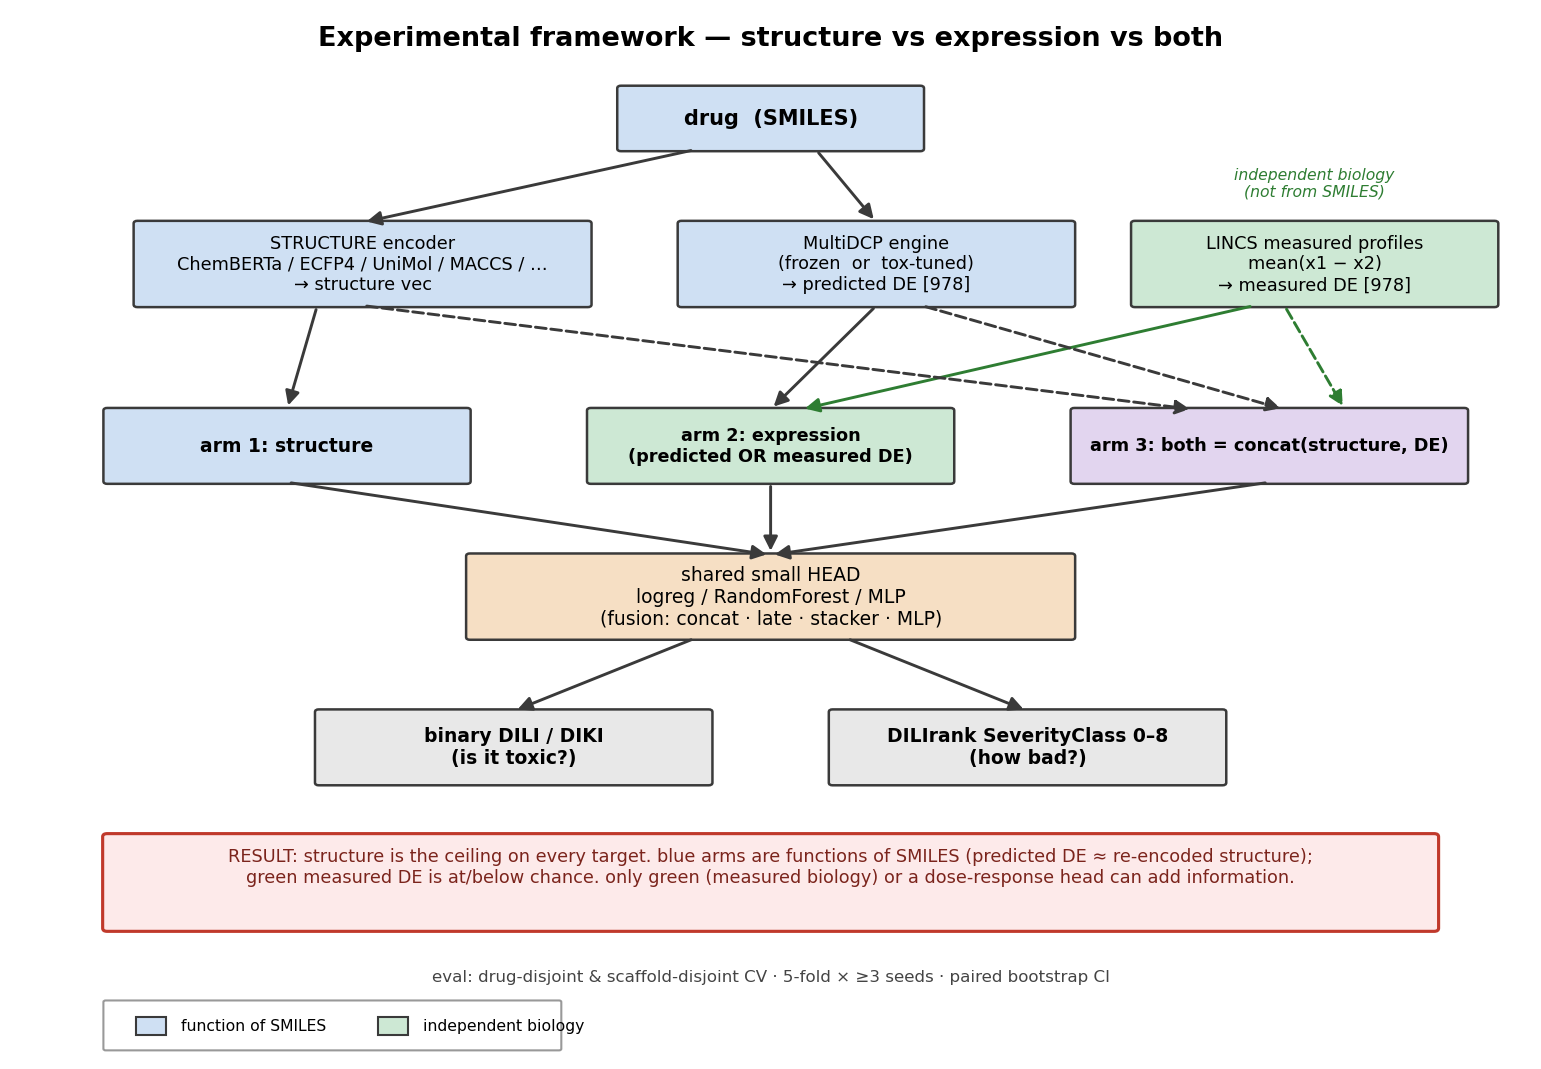
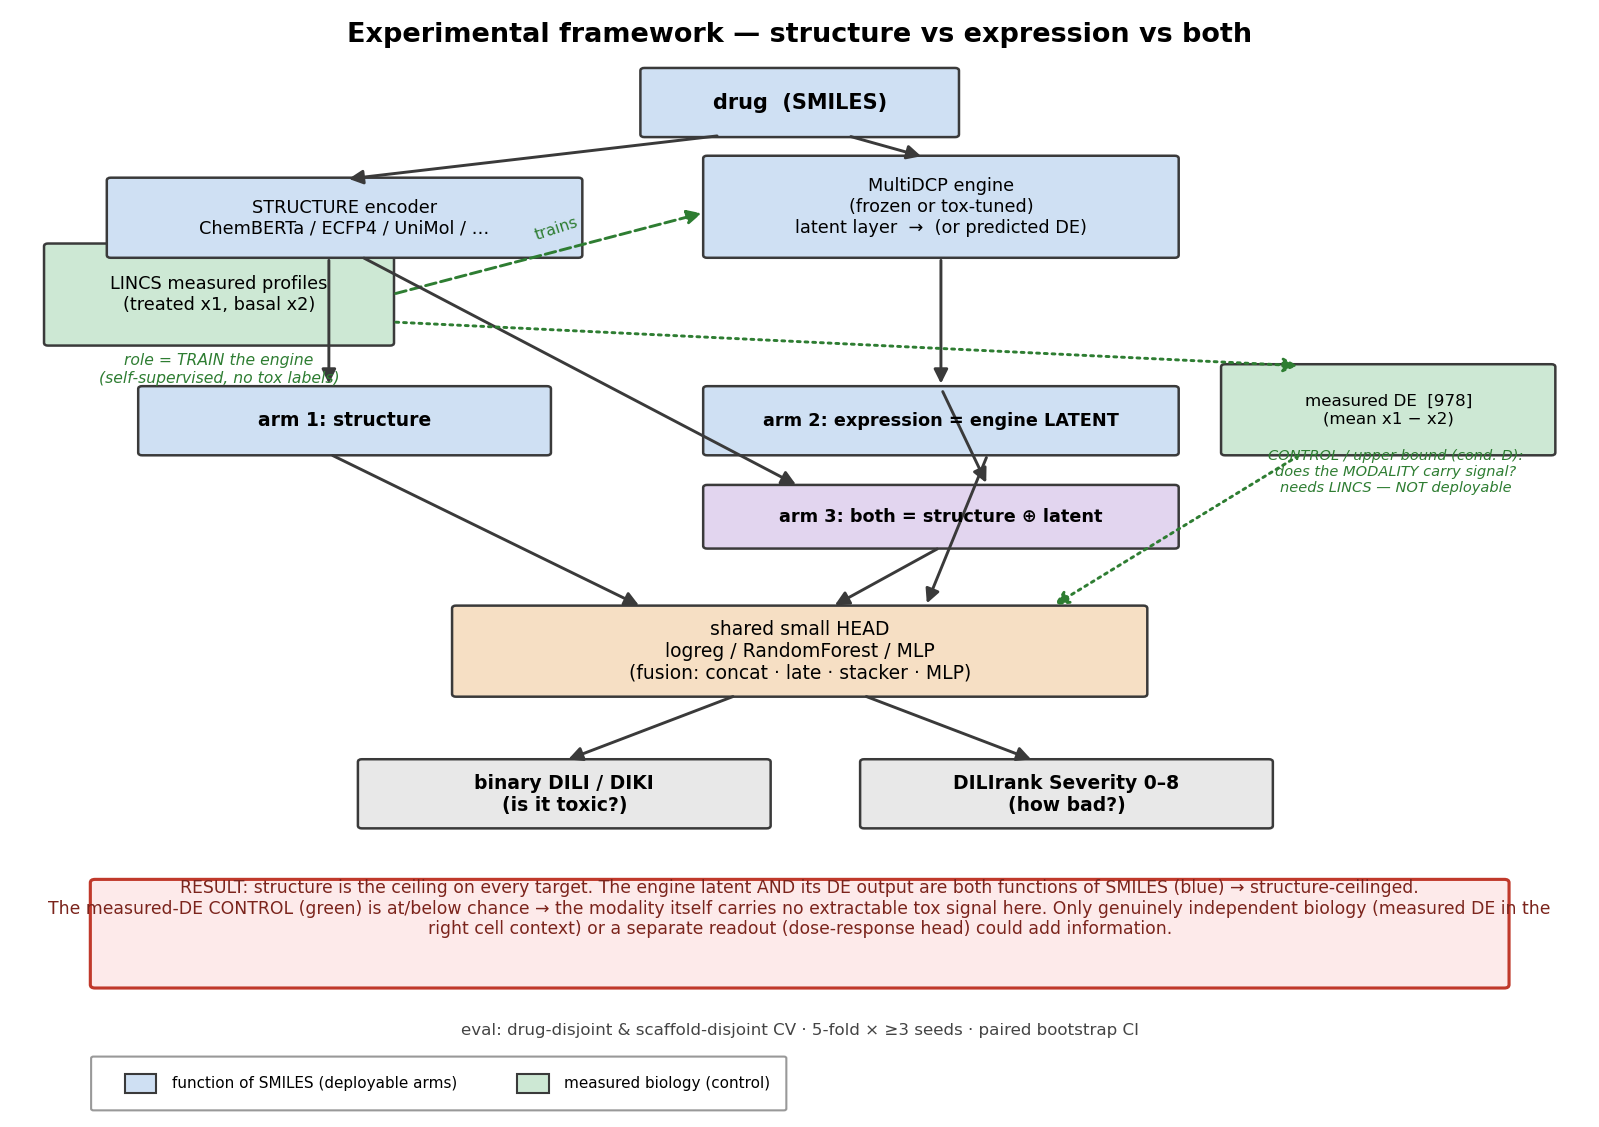
docs(tox): fix framework diagram — measured profiles train the engine; expression arm = latent
Per review: measured LINCS profiles were wrongly drawn feeding the classifier directly. Corrected:
- LINCS measured profiles -> TRAIN the MultiDCP engine (self-supervised), not the classifier.
- expression arm = engine LATENT layer (primary), DE output noted as alt readout.
- measured-DE-direct redrawn as a separate CONTROL / upper-bound branch (condition D, not deployable),
  kept because it's what showed the negative isn't an engine-fidelity artifact.

diff --git a/spatial_tests/scripts/make_wiring_figures.py b/spatial_tests/scripts/make_wiring_figures.py
@@ -87,66 +87,73 @@ def fig_engine():
 
 # ============================================================ Figure 2: framework
 def fig_framework():
-    fig, ax = plt.subplots(figsize=(13, 9))
+    fig, ax = plt.subplots(figsize=(13.5, 9.5))
     ax.set_xlim(0, 100); ax.set_ylim(0, 100); ax.axis("off")
-    ax.text(50, 97, "Experimental framework — structure vs expression vs both",
+    ax.text(50, 97.5, "Experimental framework — structure vs expression vs both",
             ha="center", fontsize=13, fontweight="bold")
 
-    # SMILES source
-    box(ax, 40, 87, 20, 6, "drug  (SMILES)", BLUE, 10, bold=True)
+    # ---- training role of measured LINCS profiles: they TRAIN the engine ----
+    box(ax, 2, 70, 22, 9, "LINCS measured profiles\n(treated x1, basal x2)", GREEN, 8.5)
+    ax.text(13, 66.5, "role = TRAIN the engine\n(self-supervised, no tox labels)",
+            ha="center", fontsize=7.5, color="#2e7d32", style="italic")
 
-    # two SMILES-derived arms
-    box(ax, 8, 72, 30, 8, "STRUCTURE encoder\nChemBERTa / ECFP4 / UniMol / MACCS / …\n→ structure vec",
+    # ---- SMILES -> two deployable, SMILES-derived arms ----
+    box(ax, 40, 89, 20, 6, "drug  (SMILES)", BLUE, 10, bold=True)
+    box(ax, 6, 78, 30, 7, "STRUCTURE encoder\nChemBERTa / ECFP4 / UniMol / …", BLUE, 8.5)
+    box(ax, 44, 78, 30, 9, "MultiDCP engine\n(frozen or tox-tuned)\nlatent layer  →  (or predicted DE)",
         BLUE, 8.5)
-    box(ax, 44, 72, 26, 8, "MultiDCP engine\n(frozen  or  tox-tuned)\n→ predicted DE [978]", BLUE, 8.5)
-    arrow(ax, 45, 87, 23, 80)
-    arrow(ax, 53, 87, 57, 80)
+    arrow(ax, 45, 89, 21, 85)
+    arrow(ax, 53, 89, 58, 87)
+    arrow(ax, 24, 74.5, 44, 82, color="#2e7d32", ls="--")  # measured profiles -> train engine
+    ax.text(33, 79.5, "trains", fontsize=7.5, color="#2e7d32", rotation=18)
 
-    # measured DE — independent biology, enters from the side
-    box(ax, 74, 72, 24, 8, "LINCS measured profiles\nmean(x1 − x2)\n→ measured DE [978]", GREEN, 8.5)
-    ax.text(86, 82.5, "independent biology\n(not from SMILES)", ha="center", fontsize=7.5,
-            color="#2e7d32", style="italic")
+    # ---- deployable arms ----
+    box(ax, 8, 60, 26, 6, "arm 1: structure", BLUE, 9, bold=True)
+    box(ax, 44, 60, 30, 6, "arm 2: expression = engine LATENT", BLUE, 8.5, bold=True)
+    box(ax, 44, 51.5, 30, 5.5, "arm 3: both = structure ⊕ latent", PURPLE, 8.5, bold=True)
+    arrow(ax, 20, 78, 20, 66)              # structure -> arm1
+    arrow(ax, 59, 78, 59, 66)              # engine latent -> arm2
+    arrow(ax, 22, 78, 50, 57)              # structure -> arm3
+    arrow(ax, 59, 66, 62, 57)             # arm2 feeds into arm3 (both)
 
-    # three arms
-    box(ax, 6, 55, 24, 7, "arm 1: structure", BLUE, 9, bold=True)
-    box(ax, 38, 55, 24, 7, "arm 2: expression\n(predicted OR measured DE)", GREEN, 8.5, bold=True)
-    box(ax, 70, 55, 26, 7, "arm 3: both = concat(structure, DE)", PURPLE, 8.5, bold=True)
-    arrow(ax, 20, 72, 18, 62)                       # structure -> arm1
-    arrow(ax, 57, 72, 50, 62)                       # pred DE -> arm2
-    arrow(ax, 82, 72, 52, 62, color="#2e7d32")      # meas DE -> arm2
-    arrow(ax, 23, 72, 78, 62, ls="--")              # structure -> arm3
-    arrow(ax, 60, 72, 84, 62, ls="--")              # pred DE -> arm3
-    arrow(ax, 84, 72, 88, 62, ls="--", color="#2e7d32")  # meas DE -> arm3
+    # ---- control branch: measured DE fed DIRECTLY (upper bound, not deployable) ----
+    box(ax, 77, 60, 21, 8, "measured DE  [978]\n(mean x1 − x2)", GREEN, 8)
+    arrow(ax, 24, 72, 82, 68, color="#2e7d32", ls=":")   # profiles -> measured DE feature
+    ax.text(88, 56.5, "CONTROL / upper bound (cond. D):\ndoes the MODALITY carry signal?\n"
+            "needs LINCS — NOT deployable", ha="center", fontsize=7, color="#2e7d32", style="italic")
 
-    # combiner / head
-    box(ax, 30, 40, 40, 8,
+    # ---- shared head ----
+    box(ax, 28, 38, 44, 8,
         "shared small HEAD\nlogreg / RandomForest / MLP\n(fusion: concat · late · stacker · MLP)",
         ORANGE, 9)
-    for x in (18, 50, 83):
-        arrow(ax, x, 55, 50, 48)
+    arrow(ax, 20, 60, 40, 46)              # arm1 -> head
+    arrow(ax, 59, 51.5, 52, 46)            # arm3 -> head
+    arrow(ax, 62, 60, 58, 46)             # arm2 -> head
+    arrow(ax, 82, 60, 66, 46, color="#2e7d32", ls=":")   # measured-DE control -> head
 
-    # targets
-    box(ax, 20, 26, 26, 7, "binary DILI / DIKI\n(is it toxic?)", GREY, 9, bold=True)
-    box(ax, 54, 26, 26, 7, "DILIrank SeverityClass 0–8\n(how bad?)", GREY, 9, bold=True)
-    arrow(ax, 45, 40, 33, 33)
-    arrow(ax, 55, 40, 67, 33)
+    # ---- targets ----
+    box(ax, 22, 26, 26, 6, "binary DILI / DIKI\n(is it toxic?)", GREY, 9, bold=True)
+    box(ax, 54, 26, 26, 6, "DILIrank Severity 0–8\n(how bad?)", GREY, 9, bold=True)
+    arrow(ax, 46, 38, 35, 32)
+    arrow(ax, 54, 38, 65, 32)
 
-    # verdict banner
-    ax.add_patch(FancyBboxPatch((6, 12), 88, 9, boxstyle="round,pad=0.2,rounding_size=0.3",
+    # ---- verdict banner ----
+    ax.add_patch(FancyBboxPatch((5, 11.5), 90, 9.5, boxstyle="round,pad=0.2,rounding_size=0.3",
                                 fc="#fdeaea", ec="#c0392b", lw=1.5))
-    ax.text(50, 16.5, "RESULT: structure is the ceiling on every target. blue arms are functions of "
-            "SMILES (predicted DE ≈ re-encoded structure);\ngreen measured DE is at/below chance. "
-            "only green (measured biology) or a dose-response head can add information.",
-            ha="center", fontsize=8.5, color="#7b241c")
+    ax.text(50, 16.2, "RESULT: structure is the ceiling on every target. The engine latent AND its DE "
+            "output are both functions of SMILES (blue) → structure-ceilinged.\nThe measured-DE "
+            "CONTROL (green) is at/below chance → the modality itself carries no extractable tox "
+            "signal here. Only genuinely independent biology (measured DE in the\nright cell context) "
+            "or a separate readout (dose-response head) could add information.",
+            ha="center", fontsize=8.3, color="#7b241c")
 
-    # eval + legend
     ax.text(50, 7, "eval: drug-disjoint & scaffold-disjoint CV · 5-fold × ≥3 seeds · paired bootstrap CI",
             ha="center", fontsize=8, color="#444")
-    ax.add_patch(FancyBboxPatch((6, 0.5), 30, 4.5, boxstyle="round,pad=0.15", fc="white", ec="#999"))
-    ax.add_patch(plt.Rectangle((8, 1.8), 2, 1.8, fc=BLUE, ec=EDGE))
-    ax.text(11, 2.7, "function of SMILES", fontsize=7.5, va="center")
-    ax.add_patch(plt.Rectangle((24, 1.8), 2, 1.8, fc=GREEN, ec=EDGE))
-    ax.text(27, 2.7, "independent biology", fontsize=7.5, va="center")
+    ax.add_patch(FancyBboxPatch((5, 0.3), 44, 4.6, boxstyle="round,pad=0.15", fc="white", ec="#999"))
+    ax.add_patch(plt.Rectangle((7, 1.7), 2, 1.8, fc=BLUE, ec=EDGE))
+    ax.text(10, 2.6, "function of SMILES (deployable arms)", fontsize=7.3, va="center")
+    ax.add_patch(plt.Rectangle((32, 1.7), 2, 1.8, fc=GREEN, ec=EDGE))
+    ax.text(35, 2.6, "measured biology (control)", fontsize=7.3, va="center")
 
     fig.savefig(OUT / "fig_framework.png", dpi=150, bbox_inches="tight"); plt.close(fig)
 
